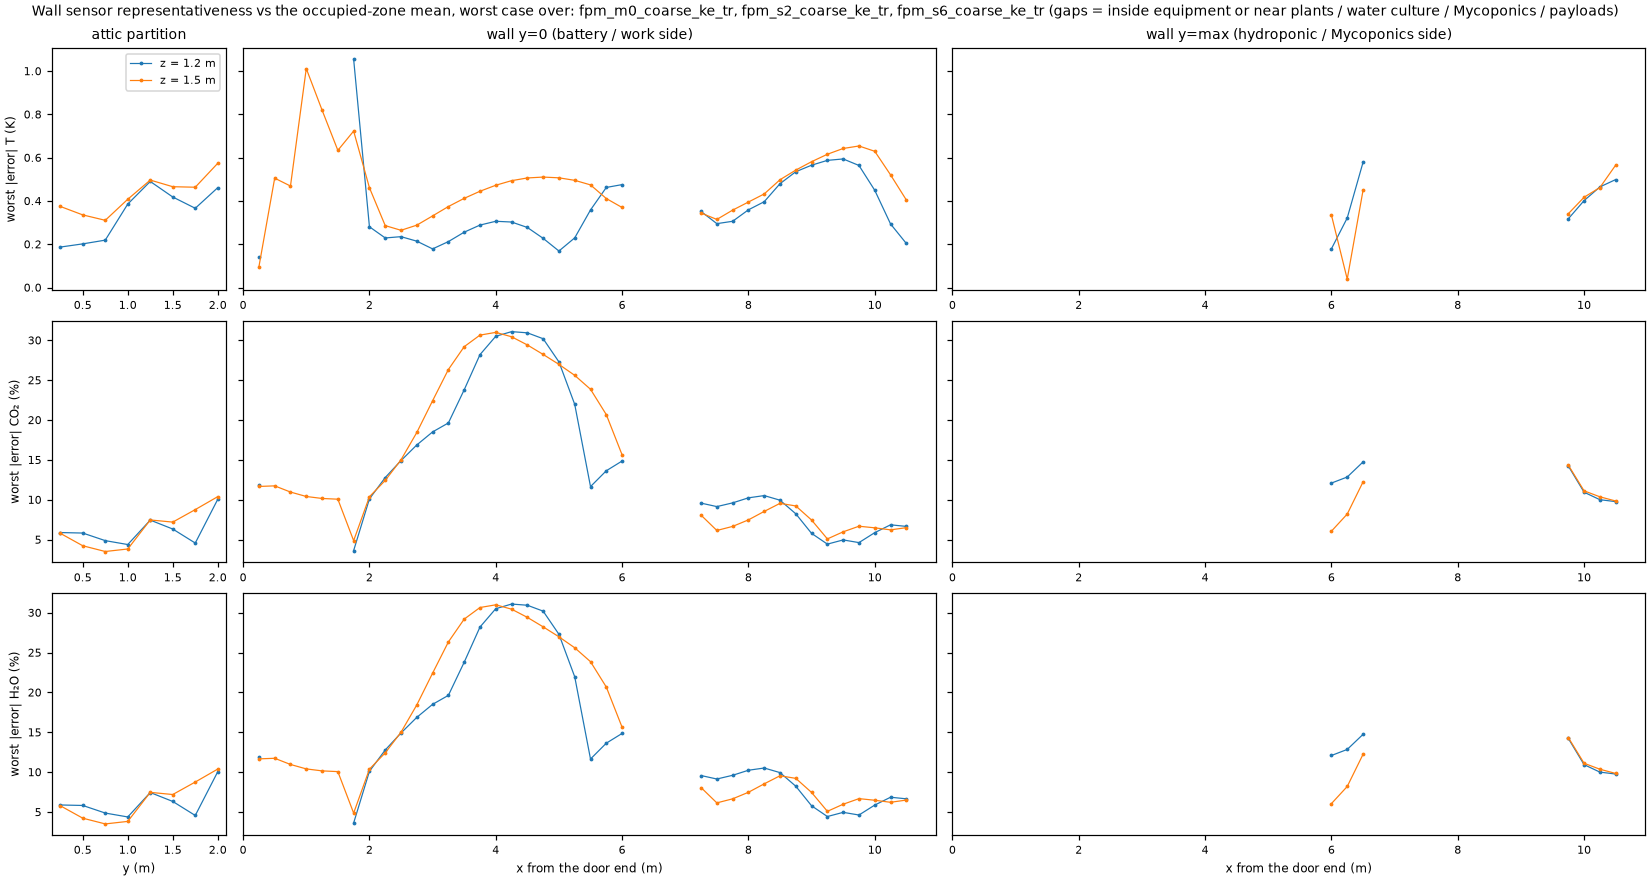
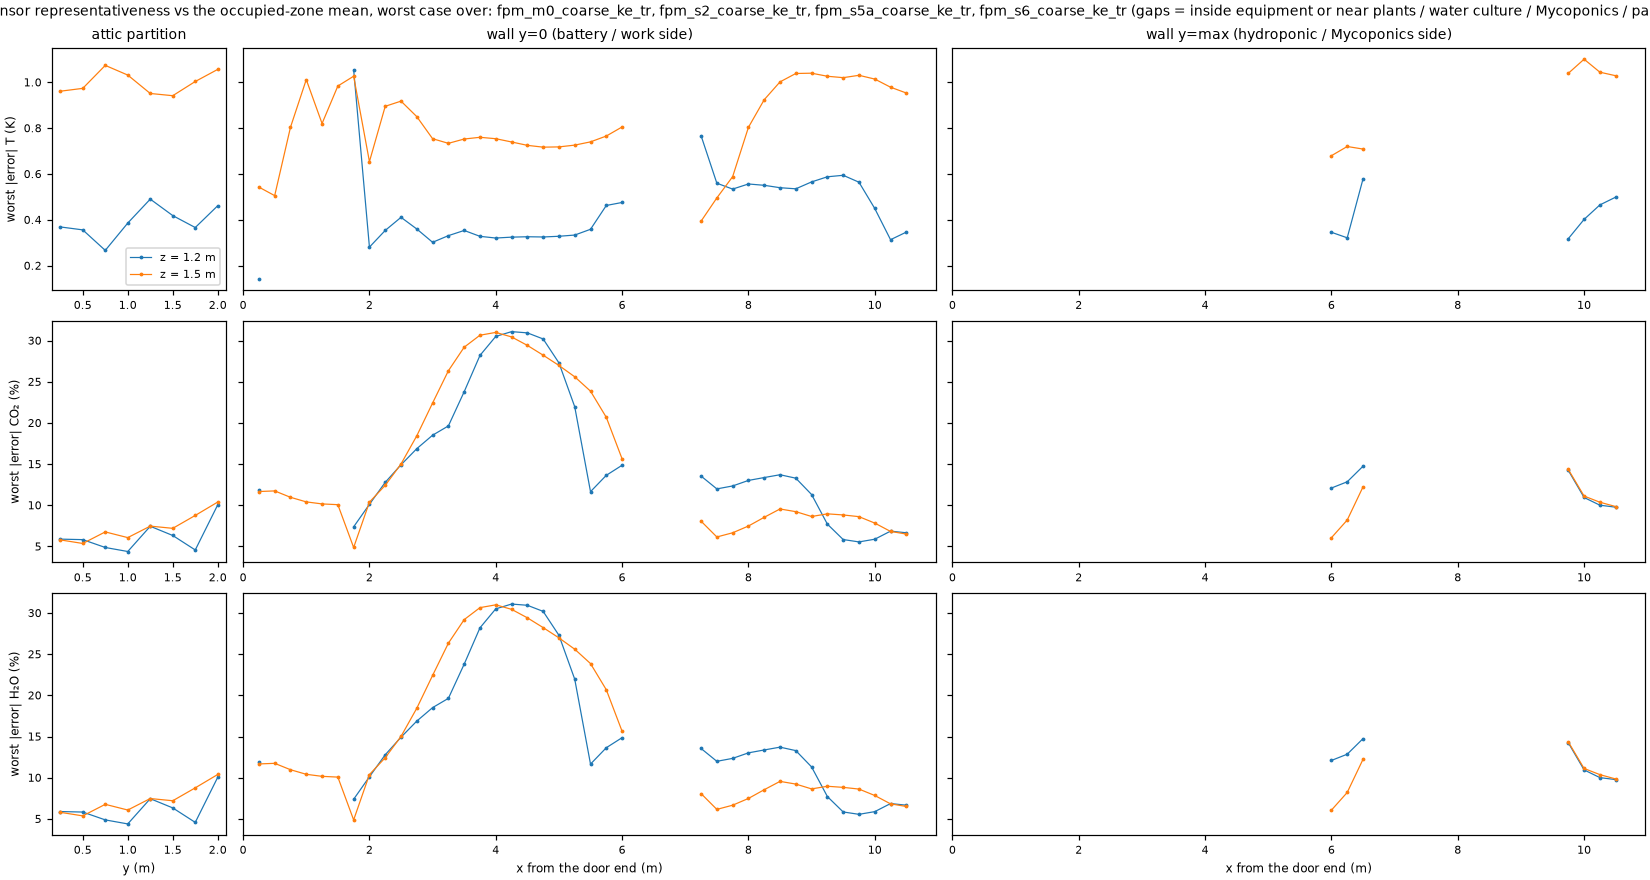
S5a (half airflow) passes uninterrupted; scenarios, sensor ranking over 4 k-eps runs, brief and manuscript updated

diff --git a/habitat/manuscript_numbers.py b/habitat/manuscript_numbers.py
@@ -78,6 +78,22 @@ def main() -> None:
     if nav:
         m.update({"AisleMin": f"{nav['min_clear_aisle_m']:.2f}", "WalkArea": f"{nav['walkable_area_m2']:.1f}",
                   "FloorArea": f"{nav['floor_area_m2']:.1f}"})
+    sc = _j("results/cfd/scenarios.json")
+    if sc:
+        for key, tag in (("s2", "Stwo"), ("s5a", "Sfivea")):
+            if key in sc["scenarios"]:
+                r = sc["scenarios"][key]["rows"]
+                m[f"{tag}TRatio"] = f"{r['domain:T_excess_K']['ratio']:.2f}"
+                m[f"{tag}COTwoRatio"] = f"{r['domain:dCO2_ppm']['ratio']:.2f}"
+                m[f"{tag}AgeRatio"] = f"{r['domain:AoA_s']['ratio']:.2f}"
+                m[f"{tag}COTwo"] = f"{r['domain:dCO2_ppm']['scenario']:.0f}"
+    sp = _j("results/cfd/sensor_placement.json")
+    if sp and sp.get("ranked"):
+        best = sp["ranked"][0]
+        m.update({"SensorRuns": len(sp["cases"]), "SensorT": f"{best['worst_T']:.2f}",
+                  "SensorCOTwo": f"{best['worst_dCO2']:.1f}", "SensorZ": f"{best['z_m']:.1f}",
+                  "SensorWhere": ("the attic partition" if "attic" in best["wall"] else "a long wall"),
+                  "SensorClear": f"{best['clearance_m']:.1f}"})
     mc = _j("results/cfd/model_compare.json")
     if mc:
         m["ModelDomainMax"] = f"{mc['summary']['domain_max_pct']:.1f}"

diff --git a/manuscript/numbers.tex b/manuscript/numbers.tex
@@ -1,6 +1,6 @@
 % generated by habitat/manuscript_numbers.py from the result files; do not edit by hand
 \newcommand{\LedgerDigest}{53413134410685ff}
-\newcommand{\GitHead}{cbdb563}
+\newcommand{\GitHead}{ab9022a}
 \newcommand{\NRecords}{174}
 \newcommand{\NAssumed}{80}
 \newcommand{\NSpecified}{51}
@@ -40,6 +40,20 @@
 \newcommand{\AisleMin}{0.89}
 \newcommand{\WalkArea}{6.5}
 \newcommand{\FloorArea}{25.2}
+\newcommand{\StwoTRatio}{1.61}
+\newcommand{\StwoCOTwoRatio}{2.97}
+\newcommand{\StwoAgeRatio}{0.99}
+\newcommand{\StwoCOTwo}{272}
+\newcommand{\SfiveaTRatio}{2.35}
+\newcommand{\SfiveaCOTwoRatio}{2.44}
+\newcommand{\SfiveaAgeRatio}{2.26}
+\newcommand{\SfiveaCOTwo}{224}
+\newcommand{\SensorRuns}{4}
+\newcommand{\SensorT}{0.27}
+\newcommand{\SensorCOTwo}{4.9}
+\newcommand{\SensorZ}{1.2}
+\newcommand{\SensorWhere}{the attic partition}
+\newcommand{\SensorClear}{1.6}
 \newcommand{\ModelDomainMax}{1.9}
 \newcommand{\ModelLocalMax}{25}
 \newcommand{\ModelSpeedMax}{18}

diff --git a/habitat/brief.py b/habitat/brief.py
@@ -59,6 +59,12 @@ def main() -> None:
                    f"supply air (×{r['domain:dCO2_ppm']['ratio']:.1f} the two-crew case) and the room runs "
                    f"{r['domain:T_excess_K']['scenario']:.1f} K above it (two crew: {r['domain:T_excess_K']['base']:.1f} K), "
                    "with the placeholder HVAC.\n")
+    if sc and "s5a" in sc.get("scenarios", {}):
+        r = sc["scenarios"]["s5a"]["rows"]
+        out.append(f"- **Half the airflow.** The room's temperature rise grows ×{r['domain:T_excess_K']['ratio']:.2f}, CO₂ "
+                   f"×{r['domain:dCO2_ppm']['ratio']:.2f} and the age of air ×{r['domain:AoA_s']['ratio']:.2f} (perfect "
+                   "mixing would give ×2): mixing gets worse at low flow, so the HVAC unit's airflow matters. (Double "
+                   "airflow did not settle within its run and is not reported.)\n")
     mc = _j("results/cfd/model_compare.json")
     if mc:
         sm = mc["summary"]

diff --git a/results/cfd/scenarios.md b/results/cfd/scenarios.md
@@ -26,3 +26,27 @@ Baseline fpm_m0_coarse_ke_tr: 520 W, 0.1416 m³/s. Values are time means above t
 | aisle_x8:dCO2_ppm | 126.8 | 301.3 | 2.38 |
 | aisle_x8:U_m_s | 0.064 | 0.08672 | 1.35 |
 
+## s5a (fpm_s5a_coarse_ke_tr: 520 W, 0.0708 m³/s)
+
+| quantity | baseline | scenario | ratio |
+|---|---|---|---|
+| domain:T_excess_K | 3.108 | 7.315 | 2.35 |
+| domain:AoA_s | 446.1 | 1009 | 2.26 |
+| domain:dCO2_ppm | 91.65 | 223.5 | 2.44 |
+| occupied:U_mean_m_s | 0.1116 | 0.07427 | 0.67 |
+| crew_1:dCO2_ppm | 135.1 | 277.7 | 2.06 |
+| crew_1:T_excess_K | 3.36 | 7.275 | 2.17 |
+| crew_2:dCO2_ppm | 139.6 | 257.6 | 1.84 |
+| crew_2:T_excess_K | 3.704 | 7.342 | 1.98 |
+| nft_canopy:T_excess_K | 3.275 | 7.66 | 2.34 |
+| nft_canopy:dH2O_mmol_mol | 0.4244 | 1.09 | 2.57 |
+| aisle_x2:T_excess_K | 2.919 | 6.9 | 2.36 |
+| aisle_x2:dCO2_ppm | 100.2 | 249.1 | 2.49 |
+| aisle_x2:U_m_s | 0.09224 | 0.04327 | 0.47 |
+| aisle_x5:T_excess_K | 3.06 | 7.073 | 2.31 |
+| aisle_x5:dCO2_ppm | 96.65 | 220 | 2.28 |
+| aisle_x5:U_m_s | 0.03486 | 0.003839 | 0.11 |
+| aisle_x8:T_excess_K | 3.654 | 7.095 | 1.94 |
+| aisle_x8:dCO2_ppm | 126.8 | 208.9 | 1.65 |
+| aisle_x8:U_m_s | 0.064 | 0.07753 | 1.21 |
+
